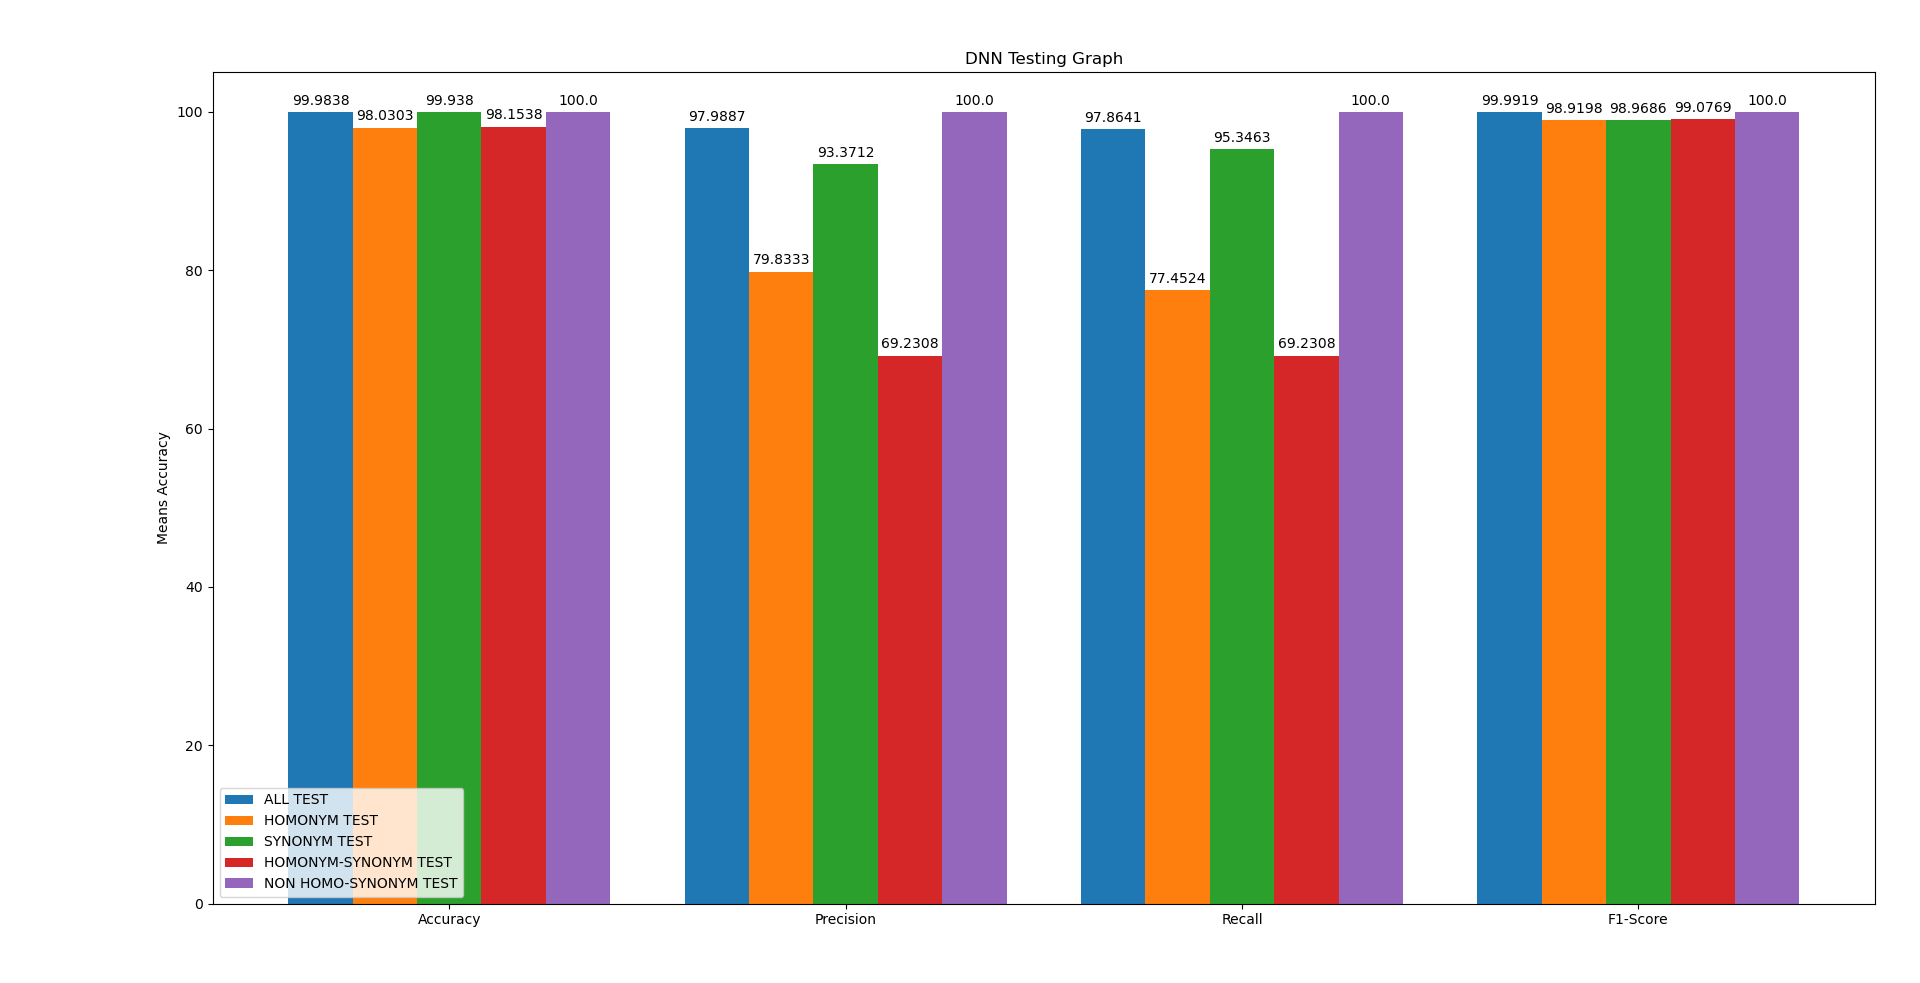
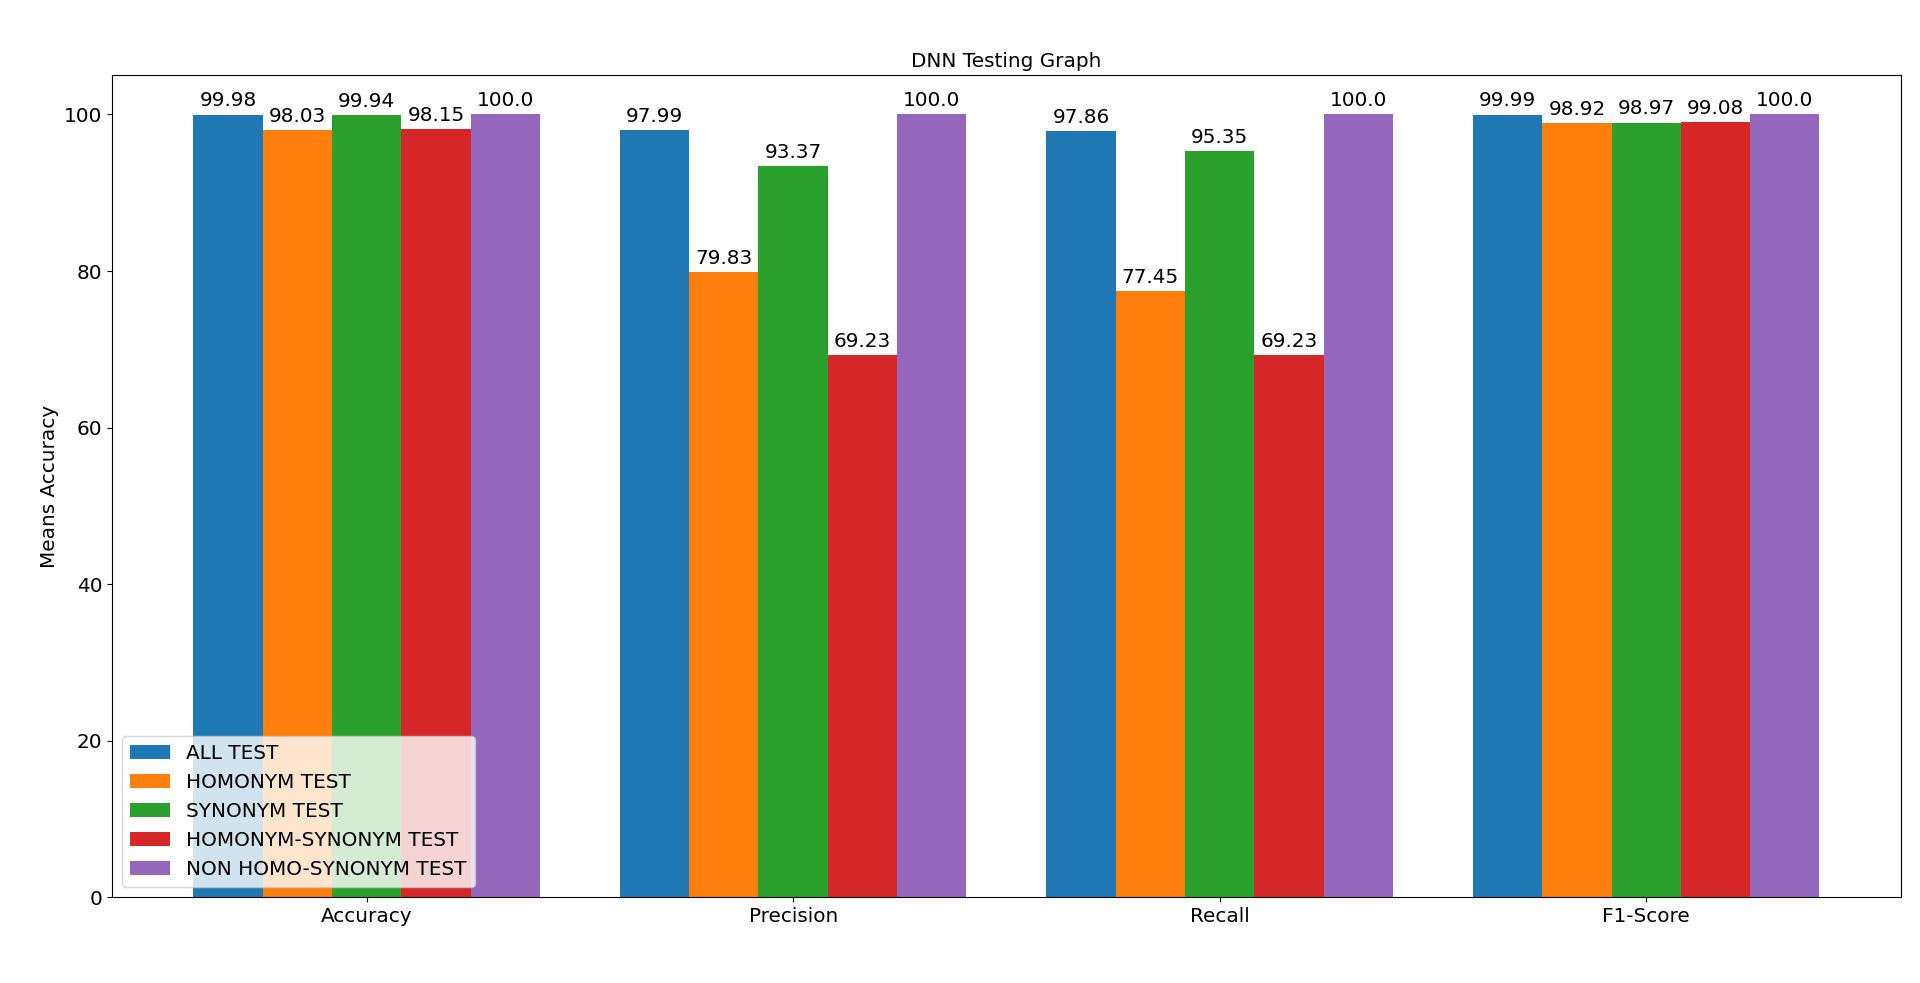
set font

diff --git a/grap.py b/grap.py
@@ -1,15 +1,23 @@
 import numpy as np
 import matplotlib.pyplot as plt
 
+params = {'legend.fontsize': 'x-large',
+          'figure.figsize': (15, 5),
+         'axes.labelsize': 'x-large',
+         'axes.titlesize':'x-large',
+         'xtick.labelsize':'x-large',
+         'ytick.labelsize':'x-large'}
 
+
+plt.rcParams.update(params)
 jumlah = 4
 
 data = [
-[99.9838, 97.9887, 97.8641, 99.9919],
-[98.0303, 79.8333, 77.4524, 98.9198],
-[99.9380, 93.3712, 95.3463, 98.9686],
-[98.1538, 69.2308, 69.2308, 99.0769],
-[100.0000, 100.0000, 100.0000, 100.0000],
+[round(99.9838,2), round(97.9887,2), round(97.8641,2), round(99.9919,2)],
+[round(98.0303,2), round(79.8333,2), round(77.4524,2), round(98.9198,2)],
+[round(99.9380,2), round(93.3712,2), round(95.3463,2), round(98.9686,2)],
+[round(98.1538,2), round(69.2308,2), round(69.2308,2), round(99.0769,2)],
+[round(100.0000,2), round(100.0000,2), round(100.0000,2), round(100.0000,2)],
 
 ]
 
@@ -35,7 +43,6 @@ plt.ylabel('Means Accuracy')
 plt.title('DNN Testing Graph')
 plt.xticks(index + lebar + lebar, ('Accuracy', 'Precision', 'Recall', 'F1-Score'))
 plt.legend(loc='lower left')
-
 def autolabel(rects):
     for rect in rects:
         height = rect.get_height()
@@ -43,6 +50,7 @@ def autolabel(rects):
                     xy=(rect.get_x() + rect.get_width() / 2, height),
                     xytext=(0, 3),  
                     textcoords="offset points",
+                    fontsize='x-large',
                     ha='center', va='bottom')
 
 
